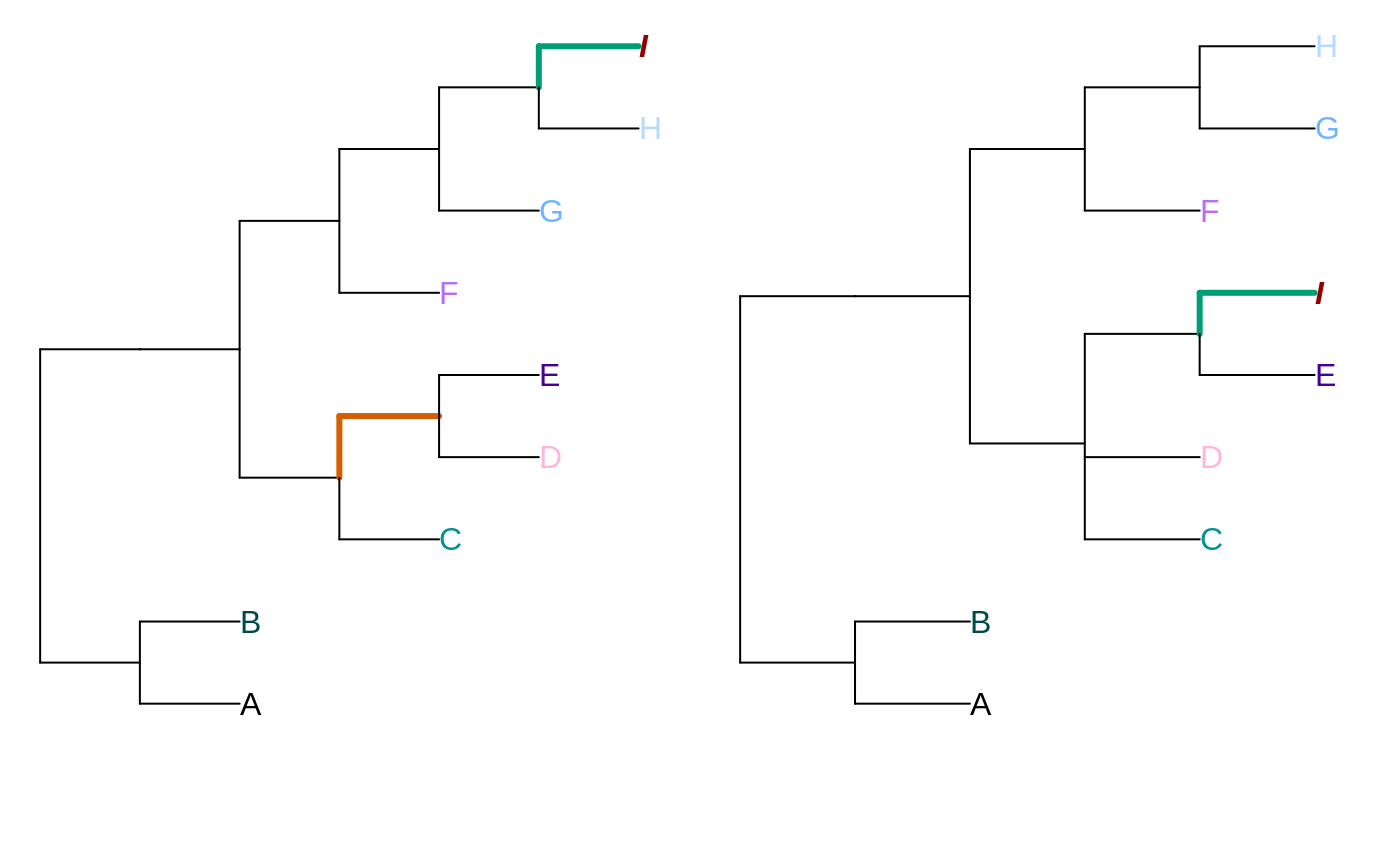
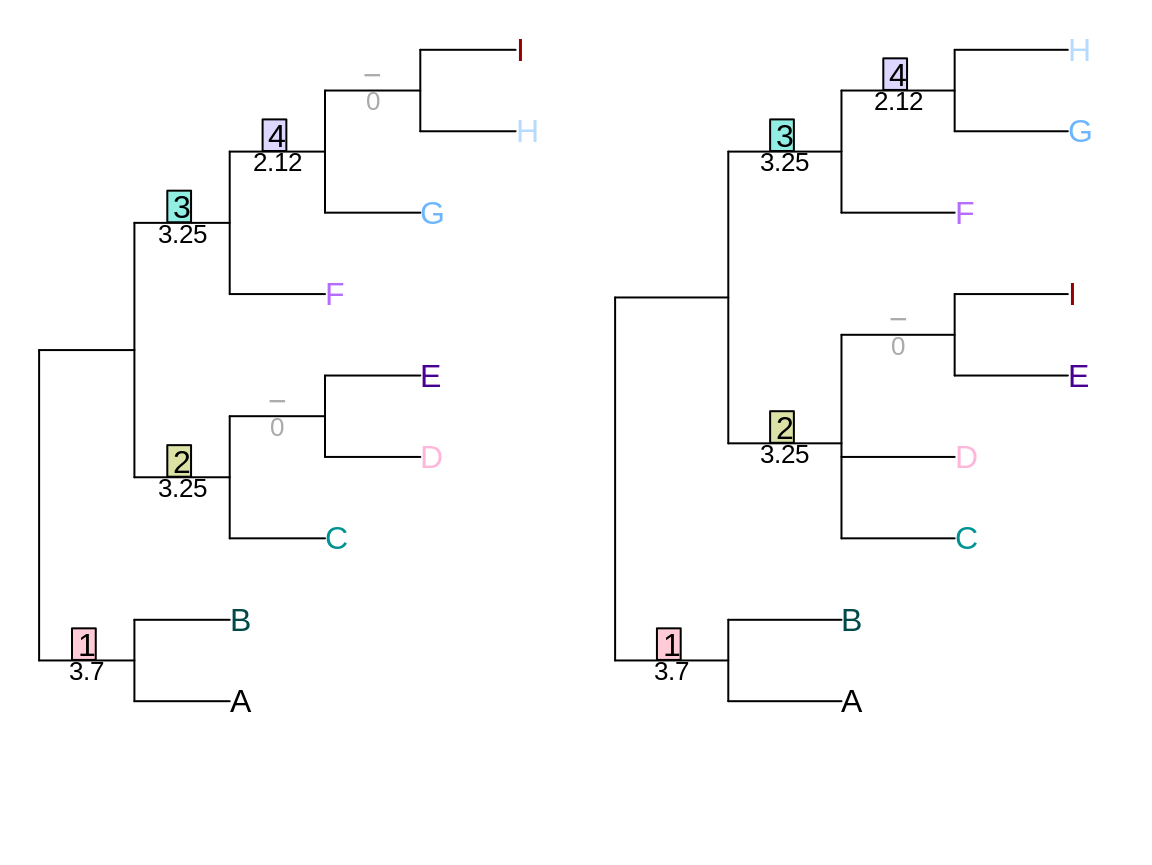
Built site for TreeDist: 0.0.0.9000@66b5ee0

diff --git a/articles/Generalized-RF.html b/articles/Generalized-RF.html
@@ -106,28 +106,89 @@
 
     
     
+<div class="sourceCode" id="cb1"><pre class="sourceCode r"><code class="sourceCode r"><a class="sourceLine" id="cb1-1" data-line-number="1"><span class="kw"><a href="https://rdrr.io/r/base/library.html">library</a></span>(<span class="st">'ape'</span>)</a>
+<a class="sourceLine" id="cb1-2" data-line-number="2"><span class="kw"><a href="https://rdrr.io/r/base/library.html">library</a></span>(<span class="st">'TreeDist'</span>)</a>
+<a class="sourceLine" id="cb1-3" data-line-number="3">tree1 &lt;-<span class="st"> </span><span class="kw"><a href="https://rdrr.io/pkg/ape/man/read.tree.html">read.tree</a></span>(<span class="dt">text=</span><span class="st">'((A, B), ((C, (D, E)), (F, (G, (H, I)))));'</span>)</a>
+<a class="sourceLine" id="cb1-4" data-line-number="4">tree2 &lt;-<span class="st"> </span><span class="kw"><a href="https://rdrr.io/pkg/ape/man/read.tree.html">read.tree</a></span>(<span class="dt">text=</span><span class="st">'((A, B), ((C, D, (E, I)), (F, (G, H))));'</span>)</a></code></pre></div>
 <p>This vignette will describe the similarity measures employed by the generalized Robinson-Foulds distances implemented in this package.</p>
 <div id="mutual-phylogenetic-information" class="section level1">
 <h1 class="hasAnchor">
 <a href="#mutual-phylogenetic-information" class="anchor"></a>Mutual phylogenetic information</h1>
+<div class="sourceCode" id="cb2"><pre class="sourceCode r"><code class="sourceCode r"><a class="sourceLine" id="cb2-1" data-line-number="1"><span class="kw"><a href="../reference/VisualizeMatching.html">VisualizeMatching</a></span>(MutualPhylogeneticInfo, tree1, tree2, </a>
+<a class="sourceLine" id="cb2-2" data-line-number="2">                  <span class="dt">Plot=</span>TreeDistPlot, <span class="dt">leaveRoom=</span><span class="ot">FALSE</span>, <span class="dt">matchZeros =</span> <span class="ot">FALSE</span>)</a></code></pre></div>
+<p><img src="Generalized-RF_files/figure-html/unnamed-chunk-1-1.png" width="576" style="display: block; margin: auto;"></p>
+<p>Pairs are scored according to their mutual phylogenetic information.</p>
+<p>The phylogenetic information content of a partition is defined as the negative logarithm of the proportion of all bifurcating <em>n</em>-tip trees that contain that partition. Thus a more even bipartition, which is consistent with a smaller proportion of trees, contains more phylogenetic information.</p>
+<p>The mutual phylogenetic information of two partitions is the information that they contain in common; that is, the sum of the information content of the two splits, minus the joint information (which is the negative logarithm of the proportion of trees that contain both partitions).</p>
+<p>Consider the splits <code>ABCDEF:GHI</code> and <code>ABCDEFI:GH</code>.</p>
+<div class="sourceCode" id="cb3"><pre class="sourceCode r"><code class="sourceCode r"><a class="sourceLine" id="cb3-1" data-line-number="1"><span class="kw"><a href="https://rdrr.io/r/base/library.html">library</a></span>(<span class="st">'TreeSearch'</span>)</a>
+<a class="sourceLine" id="cb3-2" data-line-number="2">treesMatchingSplit &lt;-<span class="st"> </span><span class="kw"><a href="https://rdrr.io/r/base/c.html">c</a></span>(</a>
+<a class="sourceLine" id="cb3-3" data-line-number="3">  <span class="dt">ABCDEF.GHI =</span> <span class="kw"><a href="https://rdrr.io/pkg/TreeSearch/man/TreesMatchingSplit.html">TreesMatchingSplit</a></span>(<span class="dv">6</span>, <span class="dv">3</span>),</a>
+<a class="sourceLine" id="cb3-4" data-line-number="4">  <span class="dt">ABCDEFI.GH =</span> <span class="kw"><a href="https://rdrr.io/pkg/TreeSearch/man/TreesMatchingSplit.html">TreesMatchingSplit</a></span>(<span class="dv">7</span>, <span class="dv">2</span>)</a>
+<a class="sourceLine" id="cb3-5" data-line-number="5">)</a>
+<a class="sourceLine" id="cb3-6" data-line-number="6">treesMatchingSplit</a></code></pre></div>
+<pre><code>## ABCDEF.GHI ABCDEFI.GH 
+##       2835      10395</code></pre>
+<div class="sourceCode" id="cb5"><pre class="sourceCode r"><code class="sourceCode r"><a class="sourceLine" id="cb5-1" data-line-number="1">proportionMatchingSplit &lt;-<span class="st"> </span>treesMatchingSplit <span class="op">/</span><span class="st"> </span><span class="kw"><a href="https://rdrr.io/pkg/TreeSearch/man/NRooted.html">NUnrooted</a></span>(<span class="dv">9</span>)</a>
+<a class="sourceLine" id="cb5-2" data-line-number="2">proportionMatchingSplit</a></code></pre></div>
+<pre><code>## ABCDEF.GHI ABCDEFI.GH 
+## 0.02097902 0.07692308</code></pre>
+<div class="sourceCode" id="cb7"><pre class="sourceCode r"><code class="sourceCode r"><a class="sourceLine" id="cb7-1" data-line-number="1">splitInformation &lt;-<span class="st"> </span><span class="op">-</span><span class="kw"><a href="https://rdrr.io/r/base/Log.html">log2</a></span>(proportionMatchingSplit)</a>
+<a class="sourceLine" id="cb7-2" data-line-number="2">splitInformation</a></code></pre></div>
+<pre><code>## ABCDEF.GHI ABCDEFI.GH 
+##   5.574909   3.700440</code></pre>
+<div class="sourceCode" id="cb9"><pre class="sourceCode r"><code class="sourceCode r"><a class="sourceLine" id="cb9-1" data-line-number="1">treesMatchingBoth &lt;-<span class="st"> </span><span class="kw"><a href="../reference/SplitMutualInformation.html">TreesConsistentWithTwoSplits</a></span>(<span class="dv">9</span>, <span class="dv">6</span>, <span class="dv">7</span>)</a>
+<a class="sourceLine" id="cb9-2" data-line-number="2">jointInformation &lt;-<span class="st"> </span><span class="op">-</span><span class="kw"><a href="https://rdrr.io/r/base/Log.html">log2</a></span>(treesMatchingBoth <span class="op">/</span><span class="st"> </span><span class="kw"><a href="https://rdrr.io/pkg/TreeSearch/man/NRooted.html">NUnrooted</a></span>(<span class="dv">9</span>))</a>
+<a class="sourceLine" id="cb9-3" data-line-number="3"></a>
+<a class="sourceLine" id="cb9-4" data-line-number="4">mutualInformation &lt;-<span class="st"> </span><span class="kw"><a href="https://rdrr.io/r/base/sum.html">sum</a></span>(splitInformation) <span class="op">-</span><span class="st"> </span>jointInformation</a>
+<a class="sourceLine" id="cb9-5" data-line-number="5">mutualInformation</a></code></pre></div>
+<pre><code>## [1] 2.115477</code></pre>
+<div class="sourceCode" id="cb11"><pre class="sourceCode r"><code class="sourceCode r"><a class="sourceLine" id="cb11-1" data-line-number="1"><span class="co"># Or more concisely:</span></a>
+<a class="sourceLine" id="cb11-2" data-line-number="2"><span class="kw"><a href="../reference/SplitMutualInformation.html">SplitMutualInformation</a></span>(<span class="dt">n =</span> <span class="dv">9</span>, <span class="dv">6</span>, <span class="dv">7</span>)</a></code></pre></div>
+<pre><code>## [1] 2.115477</code></pre>
+<!--#TODO: 1 != 1; need to normalize.-->
 <div id="the-problem-with-arboreal-matchings" class="section level2">
 <h2 class="hasAnchor">
 <a href="#the-problem-with-arboreal-matchings" class="anchor"></a>The problem with arboreal matchings</h2>
+<p>The Mutual Phylogenetic Information is an arboreal similarity score: that is to say, it assigns zero similarity to partitions that cannot both occur on a single tree. This leads to problematic behaviour in certain cases: for example, when the position of two distant taxa is swapped, similarities within a tree can be obscured. The two trees below are identical but for the position of <em>A</em> and <em>J</em>, yet receive zero similarity under arboreal metrics.</p>
+<div class="sourceCode" id="cb13"><pre class="sourceCode r"><code class="sourceCode r"><a class="sourceLine" id="cb13-1" data-line-number="1"><span class="kw"><a href="../reference/VisualizeMatching.html">VisualizeMatching</a></span>(MutualPhylogeneticInfo, <span class="dt">matchZeros =</span> <span class="ot">FALSE</span>, </a>
+<a class="sourceLine" id="cb13-2" data-line-number="2">  AtoJ &lt;-<span class="st"> </span>ape<span class="op">::</span><span class="kw"><a href="https://rdrr.io/pkg/ape/man/read.tree.html">read.tree</a></span>(<span class="dt">text=</span><span class="st">'(((((A, B), C), D), E), (F, (G, (H, (I, J)))));'</span>),</a>
+<a class="sourceLine" id="cb13-3" data-line-number="3">  AotJ &lt;-<span class="st"> </span>ape<span class="op">::</span><span class="kw"><a href="https://rdrr.io/pkg/ape/man/read.tree.html">read.tree</a></span>(<span class="dt">text=</span><span class="st">'(((((J, B), C), D), E), (F, (G, (H, (I, A)))));'</span>),</a>
+<a class="sourceLine" id="cb13-4" data-line-number="4">                  <span class="dt">Plot=</span>TreeDistPlot, <span class="dt">leaveRoom =</span> <span class="ot">FALSE</span>, <span class="dt">prune=</span><span class="kw"><a href="https://rdrr.io/r/base/c.html">c</a></span>(<span class="dv">5</span>, <span class="dv">18</span>))</a></code></pre></div>
+<p><img src="Generalized-RF_files/figure-html/unnamed-chunk-3-1.png" width="576" style="display: block; margin: auto;"></p>
 </div>
 </div>
 <div id="mutual-clustering-information" class="section level1">
 <h1 class="hasAnchor">
 <a href="#mutual-clustering-information" class="anchor"></a>Mutual clustering information</h1>
+<p>Clustering information provides a non-arboreal information-based tree distance metric.</p>
+<div class="sourceCode" id="cb14"><pre class="sourceCode r"><code class="sourceCode r"><a class="sourceLine" id="cb14-1" data-line-number="1"><span class="kw"><a href="../reference/VisualizeMatching.html">VisualizeMatching</a></span>(MutualClusteringInfo, tree1, tree2, </a>
+<a class="sourceLine" id="cb14-2" data-line-number="2">                  <span class="dt">Plot=</span>TreeDistPlot, <span class="dt">leaveRoom=</span><span class="ot">FALSE</span>, <span class="dt">matchZeros =</span> <span class="ot">FALSE</span>)</a></code></pre></div>
+<p><img src="Generalized-RF_files/figure-html/unnamed-chunk-4-1.png" width="576" style="display: block; margin: auto;"></p>
+<p>As desired, this assigns a non-zero similarity to the case that received zero similarity under an arboreal matching:</p>
+<div class="sourceCode" id="cb15"><pre class="sourceCode r"><code class="sourceCode r"><a class="sourceLine" id="cb15-1" data-line-number="1"><span class="kw"><a href="../reference/TreeDistance.html">MutualClusteringInfo</a></span>(AtoJ, AotJ)</a></code></pre></div>
+<pre><code>## [1] 19.45242</code></pre>
+<div class="sourceCode" id="cb17"><pre class="sourceCode r"><code class="sourceCode r"><a class="sourceLine" id="cb17-1" data-line-number="1"><span class="kw"><a href="../reference/VisualizeMatching.html">VisualizeMatching</a></span>(MutualClusteringInfo, AtoJ, AotJ, <span class="dt">matchZeros =</span> <span class="ot">FALSE</span>, </a>
+<a class="sourceLine" id="cb17-2" data-line-number="2">                  <span class="dt">Plot=</span>TreeDistPlot, <span class="dt">leaveRoom =</span> <span class="ot">FALSE</span>, <span class="dt">prune=</span><span class="kw"><a href="https://rdrr.io/r/base/c.html">c</a></span>(<span class="dv">5</span>, <span class="dv">18</span>))</a></code></pre></div>
+<p><img src="Generalized-RF_files/figure-html/unnamed-chunk-6-1.png" width="576" style="display: block; margin: auto;"></p>
+<p>But 0 != 0… Need to normalize.</p>
 </div>
 <div id="nye-et-al-" class="section level1">
 <h1 class="hasAnchor">
-<a href="#nye-et-al-" class="anchor"></a>Nye et al.</h1>
-<p>##- 2013 Jaccard ^ n alternative (arboreal?)</p>
+<a href="#nye-et-al-" class="anchor"></a>Nye <em>et al.</em>
+</h1>
+<div id="jaccard-n-alternative-arboreal" class="section level2">
+<h2 class="hasAnchor">
+<a href="#jaccard-n-alternative-arboreal" class="anchor"></a>2013 Jaccard ^ n alternative (arboreal?)</h2>
+</div>
 </div>
 <div id="matching-split-distance" class="section level1">
 <h1 class="hasAnchor">
 <a href="#matching-split-distance" class="anchor"></a>Matching Split Distance</h1>
-<p>##- Information theoretic alternative</p>
+<div id="information-theoretic-alternative" class="section level2">
+<h2 class="hasAnchor">
+<a href="#information-theoretic-alternative" class="anchor"></a>Information theoretic alternative</h2>
+</div>
 </div>
 <div id="references" class="section level1">
 <h1 class="hasAnchor">
@@ -147,8 +208,16 @@
       </ul>
 </li>
       <li><a href="#mutual-clustering-information">Mutual clustering information</a></li>
-      <li><a href="#nye-et-al-">Nye et al.</a></li>
-      <li><a href="#matching-split-distance">Matching Split Distance</a></li>
+      <li>
+<a href="#nye-et-al-">Nye <em>et al.</em></a><ul class="nav nav-pills nav-stacked">
+<li><a href="#jaccard-n-alternative-arboreal">2013 Jaccard ^ n alternative (arboreal?)</a></li>
+      </ul>
+</li>
+      <li>
+<a href="#matching-split-distance">Matching Split Distance</a><ul class="nav nav-pills nav-stacked">
+<li><a href="#information-theoretic-alternative">Information theoretic alternative</a></li>
+      </ul>
+</li>
       <li><a href="#references">References</a></li>
       </ul>
 </div>

diff --git a/articles/tree-distances.html b/articles/tree-distances.html
@@ -108,34 +108,31 @@
     
 <p>This file with give an overview of topological distance measures, and examples of how they can be calculated in R.</p>
 <p>Examples are conducted using a pair of trees that differ in the position of one taxon, and the resolution of one clade:</p>
-<pre><code>## Registered S3 method overwritten by 'R.oo':
-##   method        from       
-##   throw.default R.methodsS3</code></pre>
 <p><img src="tree-distances_files/figure-html/the-trees-1.png" width="576" style="display: block; margin: auto;"></p>
 <div id="robinson-foulds-distance" class="section level1">
 <h1 class="hasAnchor">
 <a href="#robinson-foulds-distance" class="anchor"></a>Robinson-Foulds distance</h1>
 <p>The Robinson-Foulds distance <span class="citation">(Robinson &amp; Foulds, 1981)</span>, also termed the partitionwise symmetric difference, is a simple but problematic partitionwise measure.</p>
 <p>Implementations include:</p>
-<div class="sourceCode" id="cb2"><pre class="sourceCode r"><code class="sourceCode r"><a class="sourceLine" id="cb2-1" data-line-number="1">phangorn<span class="op">::</span><span class="kw"><a href="https://rdrr.io/pkg/phangorn/man/treedist.html">treedist</a></span>(tree1, tree2)[<span class="st">'symmetric.difference'</span>]</a></code></pre></div>
+<div class="sourceCode" id="cb1"><pre class="sourceCode r"><code class="sourceCode r"><a class="sourceLine" id="cb1-1" data-line-number="1">phangorn<span class="op">::</span><span class="kw"><a href="https://rdrr.io/pkg/phangorn/man/treedist.html">treedist</a></span>(tree1, tree2)[<span class="st">'symmetric.difference'</span>]</a></code></pre></div>
 <pre><code>## Trees are not binary!</code></pre>
 <pre><code>## symmetric.difference 
 ##                    9</code></pre>
 <p><code>treedist</code> can only consider one pair of trees at a time, and calculates other distances at the same time, so is less suitable than:</p>
-<div class="sourceCode" id="cb5"><pre class="sourceCode r"><code class="sourceCode r"><a class="sourceLine" id="cb5-1" data-line-number="1">phangorn<span class="op">::</span><span class="kw"><a href="https://rdrr.io/pkg/phangorn/man/treedist.html">RF.dist</a></span>(tree1, tree2, <span class="dt">normalize =</span> <span class="ot">FALSE</span>)</a></code></pre></div>
+<div class="sourceCode" id="cb4"><pre class="sourceCode r"><code class="sourceCode r"><a class="sourceLine" id="cb4-1" data-line-number="1">phangorn<span class="op">::</span><span class="kw"><a href="https://rdrr.io/pkg/phangorn/man/treedist.html">RF.dist</a></span>(tree1, tree2, <span class="dt">normalize =</span> <span class="ot">FALSE</span>)</a></code></pre></div>
 <pre><code>## Trees are not binary!</code></pre>
 <pre><code>## [1] 9</code></pre>
 <p>With <code>RF.dist</code>, <code>tree1</code> and <code>tree2</code> can be multiPhylo objects containing multiple trees, in which case each tree in <code>tree1</code> will be compared with each tree in <code>tree2</code>.</p>
 <p>It is possible to suppress the seemingly unnecessary warning message, and to normalize the output against the total number of partitions present:</p>
-<div class="sourceCode" id="cb8"><pre class="sourceCode r"><code class="sourceCode r"><a class="sourceLine" id="cb8-1" data-line-number="1"><span class="kw"><a href="https://rdrr.io/r/base/message.html">suppressMessages</a></span>(phangorn<span class="op">::</span><span class="kw"><a href="https://rdrr.io/pkg/phangorn/man/treedist.html">RF.dist</a></span>(tree1, tree2, <span class="dt">normalize =</span> <span class="ot">TRUE</span>))</a></code></pre></div>
+<div class="sourceCode" id="cb7"><pre class="sourceCode r"><code class="sourceCode r"><a class="sourceLine" id="cb7-1" data-line-number="1"><span class="kw"><a href="https://rdrr.io/r/base/message.html">suppressMessages</a></span>(phangorn<span class="op">::</span><span class="kw"><a href="https://rdrr.io/pkg/phangorn/man/treedist.html">RF.dist</a></span>(tree1, tree2, <span class="dt">normalize =</span> <span class="ot">TRUE</span>))</a></code></pre></div>
 <pre><code>## [1] 0.8181818</code></pre>
 <p>The <code>TreeDist</code> package contains an inefficient implementation that allows matched partitions to be easily visualized:</p>
-<div class="sourceCode" id="cb10"><pre class="sourceCode r"><code class="sourceCode r"><a class="sourceLine" id="cb10-1" data-line-number="1">TreeDist<span class="op">::</span><span class="kw"><a href="https://ms609.github.io/TreeDist/reference/RobinsonFouldsInfo.html">RobinsonFoulds</a></span>(tree1, tree2)</a></code></pre></div>
+<div class="sourceCode" id="cb9"><pre class="sourceCode r"><code class="sourceCode r"><a class="sourceLine" id="cb9-1" data-line-number="1">TreeDist<span class="op">::</span><span class="kw"><a href="https://ms609.github.io/TreeDist/reference/RobinsonFouldsInfo.html">RobinsonFoulds</a></span>(tree1, tree2)</a></code></pre></div>
 <pre><code>## [1] 9</code></pre>
-<div class="sourceCode" id="cb12"><pre class="sourceCode r"><code class="sourceCode r"><a class="sourceLine" id="cb12-1" data-line-number="1"><span class="kw"><a href="../reference/VisualizeMatching.html">VisualizeMatching</a></span>(RobinsonFoulds, tree1, tree2, <span class="dt">matchZeros =</span> <span class="ot">FALSE</span>)</a></code></pre></div>
+<div class="sourceCode" id="cb11"><pre class="sourceCode r"><code class="sourceCode r"><a class="sourceLine" id="cb11-1" data-line-number="1"><span class="kw"><a href="../reference/VisualizeMatching.html">VisualizeMatching</a></span>(RobinsonFoulds, tree1, tree2, <span class="dt">matchZeros =</span> <span class="ot">FALSE</span>)</a></code></pre></div>
 <p><img src="tree-distances_files/figure-html/unnamed-chunk-5-1.png" width="700"></p>
 <p><code>TreeDist</code> also contains a function for the information-adjusted Robinson-Foulds distance:</p>
-<div class="sourceCode" id="cb13"><pre class="sourceCode r"><code class="sourceCode r"><a class="sourceLine" id="cb13-1" data-line-number="1"><span class="kw"><a href="../reference/RobinsonFouldsInfo.html">RobinsonFouldsInfo</a></span>(tree1, tree2, <span class="dt">similarity =</span> <span class="ot">FALSE</span>)</a></code></pre></div>
+<div class="sourceCode" id="cb12"><pre class="sourceCode r"><code class="sourceCode r"><a class="sourceLine" id="cb12-1" data-line-number="1"><span class="kw"><a href="../reference/RobinsonFouldsInfo.html">RobinsonFouldsInfo</a></span>(tree1, tree2, <span class="dt">similarity =</span> <span class="ot">FALSE</span>)</a></code></pre></div>
 <pre><code>## [1] 44.3723</code></pre>
 <p>More details, and a discussion of the problems with the Robinson-Foulds metric, are provided in a <a href="Robinson-Foulds.html">separate article</a>. <!-- #TODO check link--></p>
 </div>
@@ -148,8 +145,8 @@
 <h1 class="hasAnchor">
 <a href="#quartet-distance" class="anchor"></a>Quartet distance</h1>
 <p>The quartet distance <span class="citation">(<span class="citeproc-not-found" data-reference-id="Estabrook1985"><strong>???</strong></span>)</span> can be calculated using the <code>Quartet</code> package, which uses the <code>tqDist</code> algorithm. The most suitable distance metric is typically the Quartet Divergence <span class="citation">(Smith, 2019)</span>:</p>
-<div class="sourceCode" id="cb15"><pre class="sourceCode r"><code class="sourceCode r"><a class="sourceLine" id="cb15-1" data-line-number="1">status &lt;-<span class="st"> </span>Quartet<span class="op">::</span><span class="kw"><a href="https://rdrr.io/pkg/Quartet/man/QuartetStatus.html">QuartetStatus</a></span>(tree1, tree2)</a>
-<a class="sourceLine" id="cb15-2" data-line-number="2">Quartet<span class="op">::</span><span class="kw"><a href="https://rdrr.io/pkg/Quartet/man/SimilarityMetrics.html">QuartetDivergence</a></span>(status, <span class="dt">similarity =</span> <span class="ot">FALSE</span>)</a></code></pre></div>
+<div class="sourceCode" id="cb14"><pre class="sourceCode r"><code class="sourceCode r"><a class="sourceLine" id="cb14-1" data-line-number="1">status &lt;-<span class="st"> </span>Quartet<span class="op">::</span><span class="kw"><a href="https://rdrr.io/pkg/Quartet/man/QuartetStatus.html">QuartetStatus</a></span>(tree1, tree2)</a>
+<a class="sourceLine" id="cb14-2" data-line-number="2">Quartet<span class="op">::</span><span class="kw"><a href="https://rdrr.io/pkg/Quartet/man/SimilarityMetrics.html">QuartetDivergence</a></span>(status, <span class="dt">similarity =</span> <span class="ot">FALSE</span>)</a></code></pre></div>
 <pre><code>##         d 
 ## 0.3968254</code></pre>
 <p>For more details, see the <a href="https://ms609.github.io/Quartet">Quartet documentation</a></p>
@@ -158,22 +155,23 @@
 <h1 class="hasAnchor">
 <a href="#path-distance" class="anchor"></a>Path distance</h1>
 <p>As with the Robinson-Foulds distance, this is calculated by</p>
-<div class="sourceCode" id="cb17"><pre class="sourceCode r"><code class="sourceCode r"><a class="sourceLine" id="cb17-1" data-line-number="1">phangorn<span class="op">::</span><span class="kw"><a href="https://rdrr.io/pkg/phangorn/man/treedist.html">treedist</a></span>(tree1, tree2)[<span class="st">'path.difference'</span>]</a></code></pre></div>
+<div class="sourceCode" id="cb16"><pre class="sourceCode r"><code class="sourceCode r"><a class="sourceLine" id="cb16-1" data-line-number="1">phangorn<span class="op">::</span><span class="kw"><a href="https://rdrr.io/pkg/phangorn/man/treedist.html">treedist</a></span>(tree1, tree2)[<span class="st">'path.difference'</span>]</a></code></pre></div>
 <pre><code>## Trees are not binary!</code></pre>
 <pre><code>## path.difference 
 ##         9.69536</code></pre>
 <p>or more efficiently by:</p>
-<div class="sourceCode" id="cb20"><pre class="sourceCode r"><code class="sourceCode r"><a class="sourceLine" id="cb20-1" data-line-number="1">phangorn<span class="op">::</span><span class="kw"><a href="https://rdrr.io/pkg/phangorn/man/treedist.html">path.dist</a></span>(tree1, tree2)</a></code></pre></div>
+<div class="sourceCode" id="cb19"><pre class="sourceCode r"><code class="sourceCode r"><a class="sourceLine" id="cb19-1" data-line-number="1">phangorn<span class="op">::</span><span class="kw"><a href="https://rdrr.io/pkg/phangorn/man/treedist.html">path.dist</a></span>(tree1, tree2)</a></code></pre></div>
 <pre><code>## [1] 9.69536</code></pre>
 </div>
 <div id="spr-distance" class="section level1">
 <h1 class="hasAnchor">
 <a href="#spr-distance" class="anchor"></a>SPR distance</h1>
 <p>The SPR distance is undefined on trees that contain polytomies.</p>
-<div class="sourceCode" id="cb22"><pre class="sourceCode r"><code class="sourceCode r"><a class="sourceLine" id="cb22-1" data-line-number="1">oneSprAway &lt;-<span class="st"> </span>TreeSearch<span class="op">::</span><span class="kw"><a href="https://rdrr.io/pkg/TreeSearch/man/SPR.html">SPR</a></span>(tree1)</a>
-<a class="sourceLine" id="cb22-2" data-line-number="2">phangorn<span class="op">::</span><span class="kw"><a href="https://rdrr.io/pkg/phangorn/man/treedist.html">sprdist</a></span>(tree1, oneSprAway)</a></code></pre></div>
+<div class="sourceCode" id="cb21"><pre class="sourceCode r"><code class="sourceCode r"><a class="sourceLine" id="cb21-1" data-line-number="1">oneSprAway &lt;-<span class="st"> </span>TreeSearch<span class="op">::</span><span class="kw"><a href="https://rdrr.io/pkg/TreeSearch/man/SPR.html">SPR</a></span>(tree1)</a>
+<a class="sourceLine" id="cb21-2" data-line-number="2">phangorn<span class="op">::</span><span class="kw"><a href="https://rdrr.io/pkg/phangorn/man/treedist.html">sprdist</a></span>(tree1, oneSprAway)</a></code></pre></div>
 <p><code>sprdist</code> compares two trees. <code>SPR.dist</code> can compute the pairwise distances between each tree in a <code>multiPhylo</code> object:</p>
-<div class="sourceCode" id="cb23"><pre class="sourceCode r"><code class="sourceCode r"><a class="sourceLine" id="cb23-1" data-line-number="1">phangorn<span class="op">::</span><span class="kw"><a href="https://rdrr.io/pkg/phangorn/man/treedist.html">SPR.dist</a></span>(tree1, oneSprAway)</a></code></pre></div>
+<div class="sourceCode" id="cb22"><pre class="sourceCode r"><code class="sourceCode r"><a class="sourceLine" id="cb22-1" data-line-number="1">phangorn<span class="op">::</span><span class="kw"><a href="https://rdrr.io/pkg/phangorn/man/treedist.html">SPR.dist</a></span>(tree1, oneSprAway)</a></code></pre></div>
+<p>Note, however, that these functions only approximate the SPR distance.</p>
 </div>
 <div id="references" class="section level1 unnumbered">
 <h1 class="hasAnchor">

diff --git a/articles/Robinson-Foulds.html b/articles/Robinson-Foulds.html
@@ -174,9 +174,8 @@
 <div class="sourceCode" id="cb3"><pre class="sourceCode r"><code class="sourceCode r"><a class="sourceLine" id="cb3-1" data-line-number="1">tree1 &lt;-<span class="st"> </span>ape<span class="op">::</span><span class="kw"><a href="https://rdrr.io/pkg/ape/man/read.tree.html">read.tree</a></span>(<span class="dt">text=</span><span class="st">'(1, (2, (3, (4, (5, (6, (7, 8)))))));'</span>)</a>
 <a class="sourceLine" id="cb3-2" data-line-number="2">tree2 &lt;-<span class="st"> </span>ape<span class="op">::</span><span class="kw"><a href="https://rdrr.io/pkg/ape/man/read.tree.html">read.tree</a></span>(<span class="dt">text=</span><span class="st">'(8, (1, (2, (3, (4, (5, (6, 7)))))));'</span>)</a>
 <a class="sourceLine" id="cb3-3" data-line-number="3"></a>
-<a class="sourceLine" id="cb3-4" data-line-number="4"><span class="kw">TwoTreePlot</span>()</a>
-<a class="sourceLine" id="cb3-5" data-line-number="5"><span class="kw"><a href="../reference/VisualizeMatching.html">VisualizeMatching</a></span>(RobinsonFoulds, tree1, tree2,</a>
-<a class="sourceLine" id="cb3-6" data-line-number="6">                  <span class="dt">setPar =</span> <span class="ot">FALSE</span>, <span class="dt">Plot =</span> TreeDistPlot, <span class="dt">leaveRoom=</span><span class="ot">FALSE</span>)</a></code></pre></div>
+<a class="sourceLine" id="cb3-4" data-line-number="4"><span class="kw"><a href="../reference/VisualizeMatching.html">VisualizeMatching</a></span>(RobinsonFoulds, tree1, tree2, </a>
+<a class="sourceLine" id="cb3-5" data-line-number="5">                  <span class="dt">Plot =</span> TreeDistPlot, <span class="dt">leaveRoom=</span><span class="ot">FALSE</span>)</a></code></pre></div>
 <p><img src="Robinson-Foulds_files/figure-html/unnamed-chunk-4-1.png" width="576" style="display: block; margin: auto;"></p>
 <p>Generalized Robsinson-Foulds distances seek to address this issue. This category of metrics aim to acknowledge semblances between similar-but-not-quite-identical pairs of partitions, which would contribute zero to tree similarity under the standard Robinson-Foulds.</p>
 <p>Generalized RF distances work by pairing each partition in one tree with a similar partition in the other (or leaving it unpaired). Each pairing is scored according to the similarity of the paired partitions. The decision of which partition to pair with which is called a <em>matching</em>, and a matching is scored by summing the individual similarity scores of each pair. The tree distance is given by the score of the optimal matching.</p>
